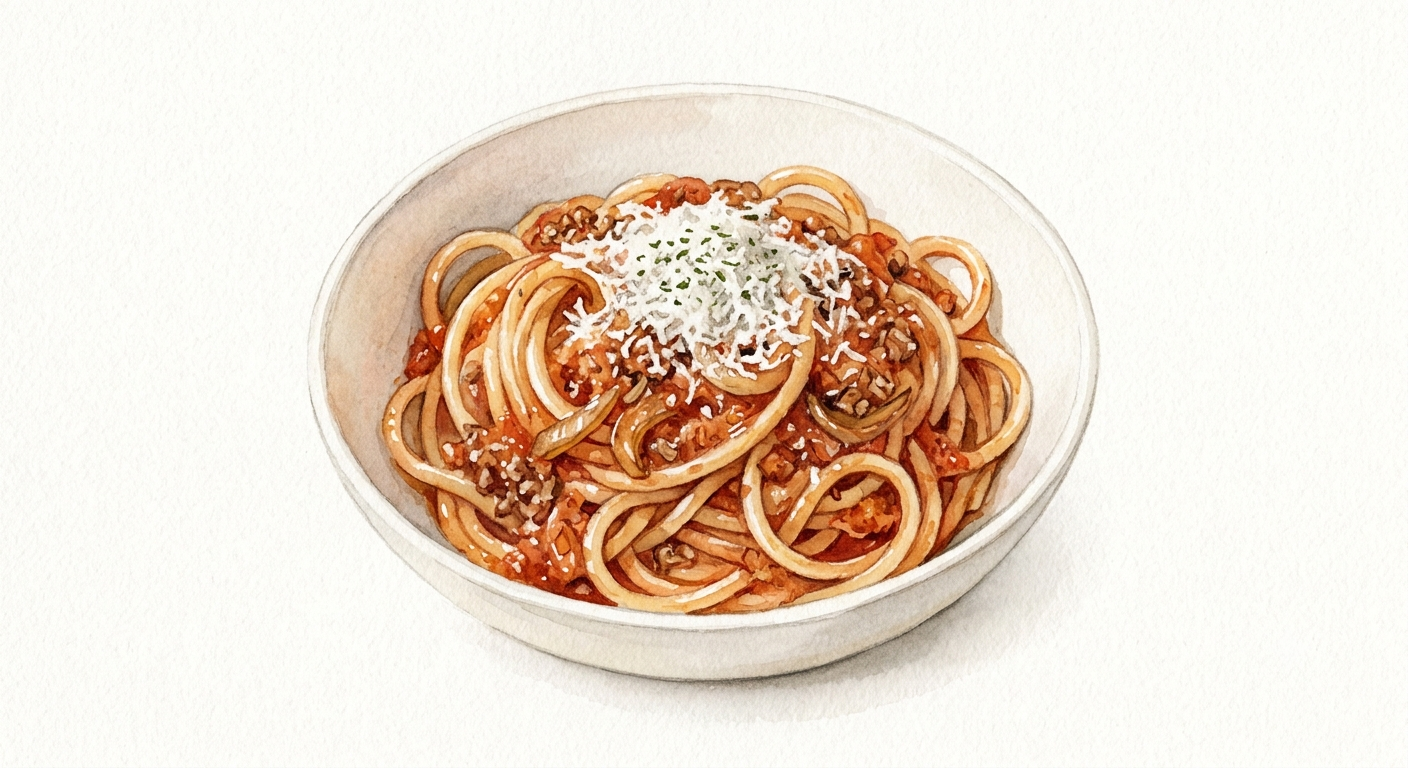
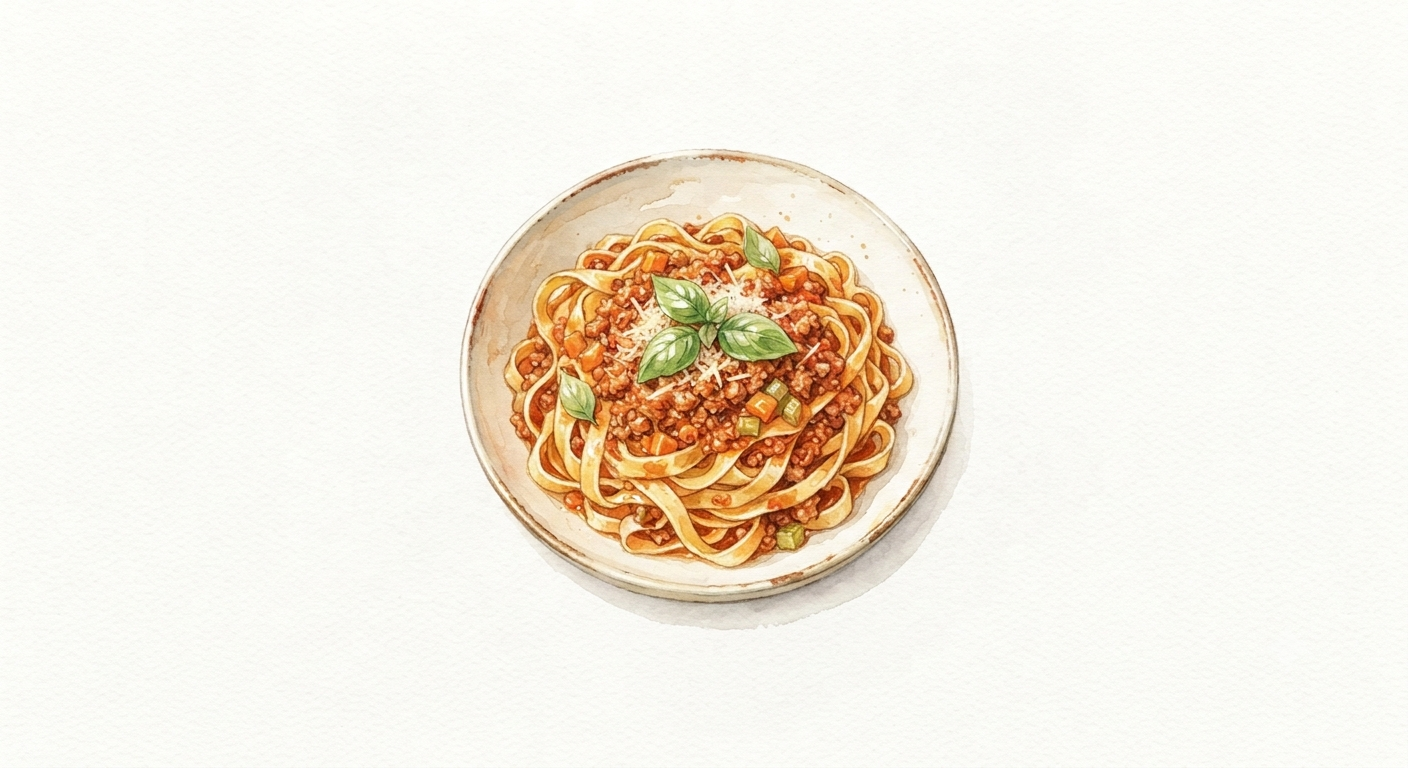
Add more images

diff --git a/recipes/asperge-lasagne.tex b/recipes/asperge-lasagne.tex
@@ -43,4 +43,6 @@ verpakking en laat ze uitlekken over de rand van een vergiet.}
   \item Bak 10--15 minuten in het midden van de oven. Bestrooi met bieslook voor
         het serveren.
 \end{steps}
+
+\heroimagefade{images/asperge_lasagne}
 \end{recipe}

diff --git a/recipes/bloemkoolquiche.tex b/recipes/bloemkoolquiche.tex
@@ -59,4 +59,6 @@ zodat ze niet naar beneden zakken.}
         over de vulling.
   \item Bak de quiche 45 minuten op 180\,°C tot de vulling gestold is.
 \end{steps}
+
+\heroimagefade{images/quiche_bloemkool}
 \end{recipe}

diff --git a/recipes/bobotie.tex b/recipes/bobotie.tex
@@ -56,4 +56,6 @@ met rijst gekookt met rozijnen.
         de bobotie 10 minuten rusten voor je hem aansnijdt, dan blijft hij
         beter in vorm. Serveer naast de rijst.
 \end{steps}
+
+\heroimagefade{images/bobotie}
 \end{recipe}

diff --git a/recipes/gnocchi-zongedroogde-tomaten.tex b/recipes/gnocchi-zongedroogde-tomaten.tex
@@ -48,4 +48,6 @@ zelf (p.~\pageref{recipe:gnocchi}).}
   \item Schep de gnocchi door de saus en roer de Parmezaanse kaas erdoor.
         Voeg eventueel nog een scheutje kookvocht toe om de saus te binden.
 \end{steps}
+
+\heroimagefade[verso]{images/gnocchi_zongedroogdetomaten}
 \end{recipe}

diff --git a/recipes/parmigiana-melanzane.tex b/recipes/parmigiana-melanzane.tex
@@ -50,4 +50,6 @@ ovenschaal met mozzarella en Parmezaan.
   \item Bak 25--30 minuten tot de kaas goudbruin is en de saus pruttelt.
   \item Laat 10 minuten rusten voor het serveren.
 \end{steps}
+
+\heroimagefade{images/melanzana}
 \end{recipe}

diff --git a/recipes/quiche-groente-cirkel.tex b/recipes/quiche-groente-cirkel.tex
@@ -59,4 +59,6 @@ gaart ze nauwelijks verder, dus blancheer goed voor.}
   \item Bak 45 minuten op 180\,°C. Strooi vlak voor het serveren wat losse tijmblaadjes
         over de quiche.
 \end{steps}
+
+\heroimagefade{images/quiche_groente_cirkel}
 \end{recipe}

diff --git a/recipes/quiche-groente-geitenkaas.tex b/recipes/quiche-groente-geitenkaas.tex
@@ -64,4 +64,6 @@ roosteren en blijft de smaak vlak.}
         eimengsel erover. Bedek met de cashewnoten.
   \item Bak 45 minuten op 180\,°C tot de vulling gestold is.
 \end{steps}
+
+\heroimagefade{images/geroosterde_groente_quiche}
 \end{recipe}

diff --git a/recipes/quiche-ham-prei.tex b/recipes/quiche-ham-prei.tex
@@ -51,4 +51,6 @@ zand, en dat proef je terug in de quiche als je het er niet uit spoelt.}
         fraîche tot een glad mengsel en giet dit erover.
   \item Bak de quiche 45 minuten op 180\,°C tot de vulling gestold is.
 \end{steps}
+
+\heroimagefade{images/quiche_ham_prei}
 \end{recipe}

diff --git a/recipes/quiche-lorraine.tex b/recipes/quiche-lorraine.tex
@@ -52,4 +52,6 @@ in plaats van zijdezacht.}
   \item Bak de quiche 45 minuten op 180\,°C tot de vulling gestold is. 
   \item Laat de quiche 10 minuten rusten voor het aansnijden. Garneer eventueel met wat bieslook.
 \end{steps}
+
+\heroimagefade{images/quiche_loraine}
 \end{recipe}

diff --git a/recipes/risotto.tex b/recipes/risotto.tex
@@ -51,4 +51,6 @@ de risotto pas écht romig.}
 
 \vspace{1em}{\footnotesize\itshape\color{terracotta}Met dank aan Miljuschka
 Witteveen, naar haar tomaten-basilicumrisotto. miljuschka.nl/tomaten-basilicumrisotto}
+
+\heroimagefade{images/tomaten_pesto_risotto}
 \end{recipe}

diff --git a/recipes/spinazie-quiche.tex b/recipes/spinazie-quiche.tex
@@ -53,4 +53,6 @@ en scheelt je de rusttijd.}
   \item Bak de quiche 45 minuten op 200\,°C tot de vulling gestold is en de bovenkant
         goudbruin.
 \end{steps}
+
+\heroimagefade{images/spinazie_quiche}
 \end{recipe}

diff --git a/recipes/tortellini-al-forno.tex b/recipes/tortellini-al-forno.tex
@@ -41,4 +41,6 @@ kan ook.
         strooi nog wat parmezaan en een laagje paneermeel erover.
   \item Zet in de oven tot de bovenkant goed bruin is, ca.\ 15--20 minuten.
 \end{steps}
+
+\heroimagefade[verso]{images/tortellini_courgette_spek}
 \end{recipe}